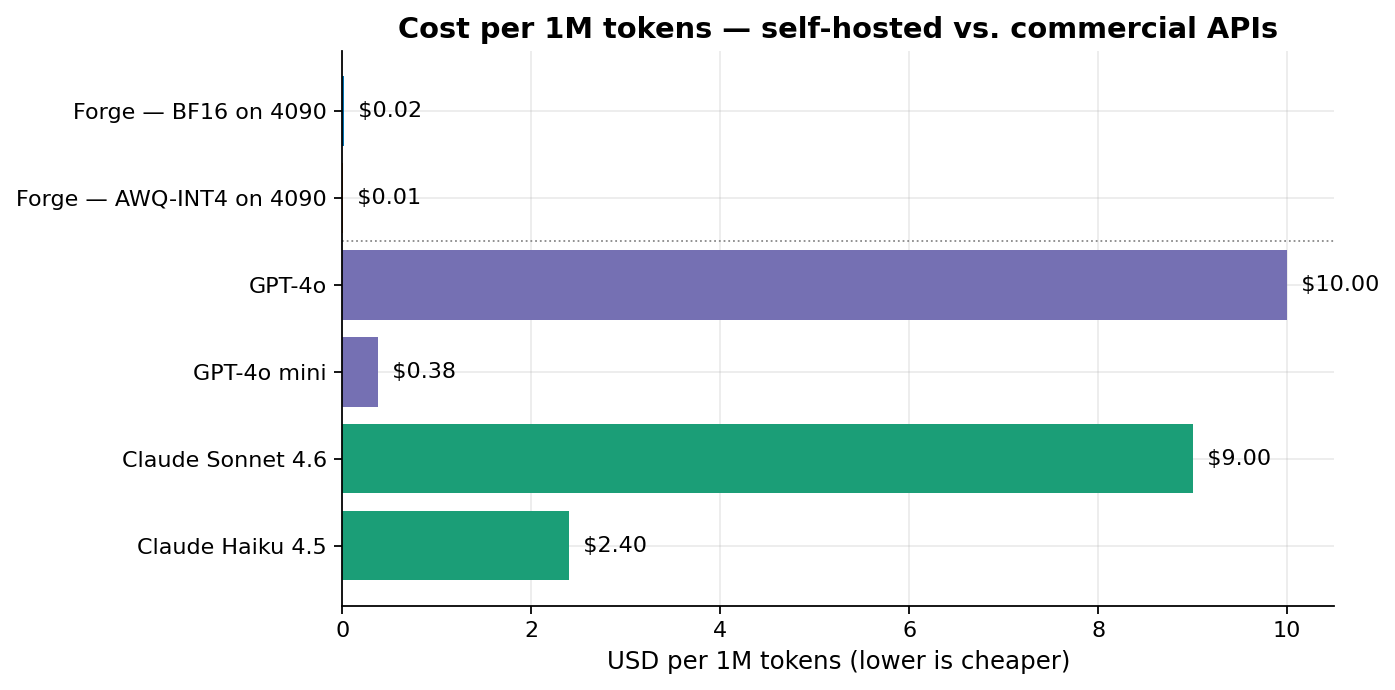
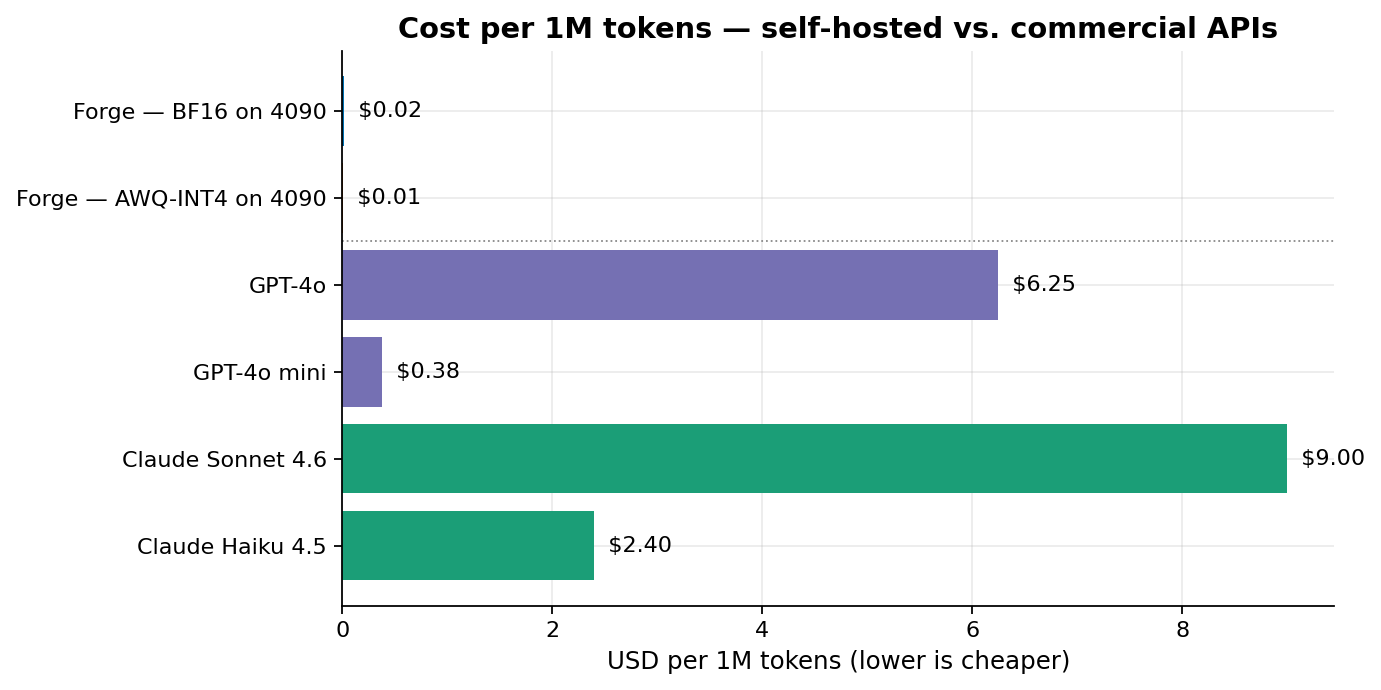
docs(readme): retune cost ratio to ~680x against refreshed gpt-4o pricing

diff --git a/README.md b/README.md
@@ -1,6 +1,6 @@
 # Forge
 
-> **Self-host Llama 3.1 8B Instruct on a single $0.34/hr RTX 4090, serve it at ~5,200 generation tokens/sec, and pay ~$0.009 per 1M tokens — roughly **1,100× cheaper than GPT-4o** while retaining ~98% of full-precision quality.**
+> **Self-host Llama 3.1 8B Instruct on a single $0.34/hr RTX 4090, serve it at ~5,200 generation tokens/sec, and pay ~$0.009 per 1M tokens — roughly **680× cheaper than GPT-4o** while retaining ~98% of full-precision quality.**
 
 Forge is a focused engineering artifact, not a SaaS. It serves an open-source LLM with a production-grade stack (vLLM + AWQ-INT4 + Marlin kernels), benchmarks it under realistic concurrency, evaluates quantization quality on standard tasks, and traces every dollar in the cost comparison back to a measured throughput number.
 
@@ -24,7 +24,7 @@ TTFT scales with concurrency on both variants (prefill is compute-bound), but AW
 
 ![Cost per 1M tokens](./results/charts/cost-per-1m-tokens.png)
 
-Even at full BF16, self-hosting on a $0.34/hr 4090 is two orders of magnitude cheaper than GPT-4o blended pricing. With AWQ-INT4, the ratio is ~1,100×.
+Even at full BF16, self-hosting on a $0.34/hr 4090 is two orders of magnitude cheaper than GPT-4o blended pricing. With AWQ-INT4, the ratio is ~680×.
 
 ### Quantization retains ~98% of quality
 
@@ -146,7 +146,7 @@ bash deploy/runpod-run.sh --variant awq
 - **Latency metrics**: `vllm bench serve` reports mean/median/p99 for TTFT (time to first token) and TPOT (time per output token). We treat the p99 as the upper bound for latency-sensitive use cases.
 - **Quality eval**: `lm-evaluation-harness` with `local-completions` model type pointed at the running vLLM endpoint. Tasks: MMLU (5-shot, `acc`), GSM8K (5-shot, `exact_match`), HellaSwag (5-shot, `acc_norm`). No `--limit` for the real run.
 - **Cost model**: `$/1M tokens = gpu_hourly_usd * 1e6 / (3600 * sustained_throughput * utilization)`. We use the peak total token throughput from the sweep at `utilization=1.0` for the headline number; sensitivity at 80% utilization is in the cost-comparison JSON next to the chart.
-- **API pricing**: collected 2026-05-25 from each provider's pricing page. Sources in `forge/cost/pricing.py`.
+- **API pricing**: collected 2026-05-26 from each provider's pricing page. Sources in `forge/cost/pricing.py`.
 
 ## Project layout
 